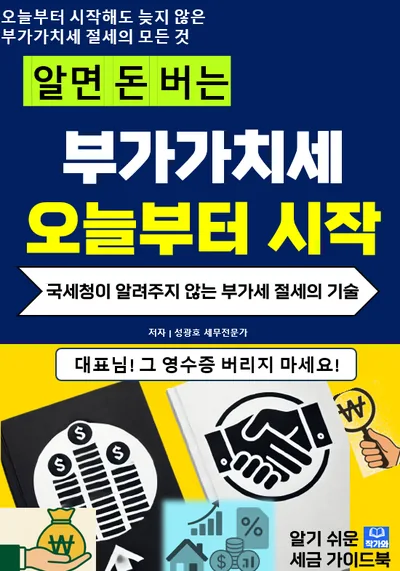
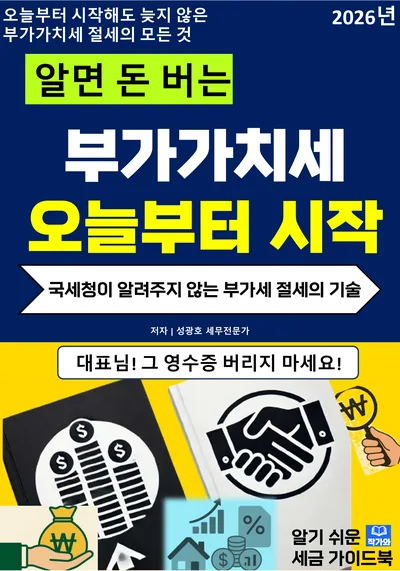
책 표지 24장 추가·책 27권으로
운영자가 보낸 표지 PDF로 새 책 15권(공저자 포함)과 기존 책 9권 표지를 더함.
그린 표지 머리말은 제목에 있을 때만, 지은이 줄에 공저자(bookAuthors).

Claude-Session: https://claude.ai/code/session_01AABDgFkEFoZPQB6r4Tz1H1

Changed region(s): [[0.0, 0.0, 1.0, 1.0], [0.81, 0.0, 0.99, 0.0595], [0.0, 0.9229, 0.03, 0.9527]]

diff --git a/src/lib/shelf.js b/src/lib/shelf.js
@@ -20,3 +20,8 @@ export function shelfSpines(featured = [], n = 14) {
     return { c: f || CLOTH[Math.floor(rnd() * CLOTH.length)], w: f ? 1.35 : 0.8 + rnd() * 0.5, h: f ? 0.96 : 0.68 + rnd() * 0.26, featured: !!f };
   });
 }
+
+// 책 지은이 줄: 대표 + 공저자(home.json books coauthors — 표지에 적힌 이름 그대로)
+export function bookAuthors(rep, book) {
+  return [rep, ...((book && book.coauthors) || [])].join(" · ");
+}

diff --git a/CLAUDE.md b/CLAUDE.md
@@ -43,7 +43,7 @@
 - 법조문 원문 감시(5차 A3): `.github/workflows/law-watch.yml`이 매주 월요일 택스 서치 최신 fixture와 `docs/*-sources.json`을 `--check`로 대조(`scripts/lib/sourceCheck.mjs` — 글자·법률 번호만, 받은 날 차이는 무시), 바뀌면 실패·요약. 택스 서치가 비공개라 저장소 비밀 값 `TAX_SEARCH_TOKEN`(읽기 전용)이 없으면 건너뛴다. 바뀌면 사이트 글(용어 풀이·세율)을 확인한 뒤 스크립트를 `--check` 없이 돌려 옮긴다. `/sources`(원문 기준일)가 옮겨 둔 원문의 판·받은 날·쓰는 곳을 보인다 — 감시가 돈다고 쪽에 적지 말 것(토큰이 없으면 안 돎).
 - 지면에 실린 칼럼은 `src/data/press.json`(지면 제목 그대로) + `public/img/press/`(운영자가 보낸 지면 PDF를 그림으로) — 칼럼·책 쪽 맨 위.
 - 종이색은 풀빛 도는 회색(#F2F3EE), + 기호는 로고·첫 화면 제목 끝 하나·마감 표시·목록 줄 오른쪽(`PlusList` — 2차 개편 계획 승인)·계산기 불러오는 중·옅은 모눈(`.plusgrid`)에만 — 제목·띠·틀 머리에 더하지 말 것(2026-10-24 시안 1판에서 십자수처럼 보인다는 지적, 같은 날 독립 검토에서 마무리 띠 제목·404·불복 띠·계산기 틀에 붙인 것을 뺐다).
-- 책 목록 `home.json` books는 최신순 — 홈은 앞에서 `homeBooks`(4)권만, 칼럼·책 페이지는 전부. 표지 사진은 `cover`(public/img/books/, PowerPoint에서 PNG로 내보낸 것 → webp 400px), 없으면 표지색(`color`)으로 그린 표지. 표지 PPTX를 이 환경에서 그림으로 바꾸면 글꼴이 없어 깨지니 쓰지 말 것.
+- 책 목록 `home.json` books는 최신순 — 홈은 앞에서 `homeBooks`(4)권만, 칼럼·책 페이지는 전부. 표지 사진은 `cover`(public/img/books/, PowerPoint에서 PNG로 내보낸 것 → webp 400px), 없으면 표지색(`color`)으로 그린 표지. 표지 PPTX를 이 환경에서 그림으로 바꾸면 글꼴이 없어 깨지니 쓰지 말 것. 운영자가 보낸 표지 PDF(글꼴이 박혀 있음)는 그대로 그려 써도 된다(pdftoppm 300dpi → 가운데 400×571). 출간 연월(`date`)은 확인된 것만 — 표지의 「2025년」·파일 이름 날짜는 출간일이 아니다(날짜 없는 책은 그 날짜를 참고해 순서만). 머리말이 「알면 돈 버는」 말고도 「알면 돈이 되는」·「알아두면 돈이 되는」이 있다(제목은 표지 글자 그대로), 공저자는 `coauthors`(지은이 줄 `bookAuthors`).
 - 칼럼·책 카드 표지는 `src/components/Thumb.astro` — 블로그 글은 제목 낱말로 주제(`src/lib/thumbTopic.js`)를 골라 색·그림을 바꾸고, RSS에 네이버 사진(pstatic.net)이 있으면 사진을 쓴다(못 불러오면 그림).
 - 로고는 글자 로고 A「하나 더+ │ 세무회계」(2026-10-24 운영자 선택) — `src/components/Logo.astro` 한 곳(머리글·메뉴·바닥글은 `dark`). "하나 더"는 명조 900을 그 세 글자만 잘라(`serif-logo-900`), +는 가는 금색(`Hanadeo Num` 400).
   아이콘 PNG 5개·`og.png`는 같은 로고의 "더+"(숲색 바탕·크림색 더·금색 +) — `scripts/make-brand-images.mjs`로만 다시 만든다(손으로 고치지 말 것). `tests/icons.test.mjs`가 픽셀을 본다(예전 PNG에 깨진 그림 표시가 찍혀 바로가기 아이콘이 하얬다).

diff --git a/docs/photo-sources.md b/docs/photo-sources.md
@@ -23,3 +23,5 @@
 | own-page-{900,600}.webp | 「병·의원 세무 관리」 83쪽(펼친 책, 손 잘라 냄) |
 
 책 표지 `public/img/books/clinic-tax.webp` — 운영자가 보낸 「병·의원 세무 관리」 표지 사진을 원근 보정해 400×571로(2026-10-24).
+
+책 표지 나머지 24장(`public/img/books/*.webp`, clinic-tax 말고) — 운영자가 2026-10-24 보낸 표지 PDF(파워포인트로 만든 A4 한 장, 글꼴 포함)를 300dpi로 그려 가운데를 400×571로 자름. 「전문직 사업자 세무 관리」는 A4 가운데 그림이라 흰 여백을 잘라 냄. 「비상장주식 및 영업권 평가」(2024 Word 표지)는 운영자 지시로 쓰지 않고 「알아두면 돈이 되는 비상장주식과 영업권 평가 실무」 표지로 바꿈.
